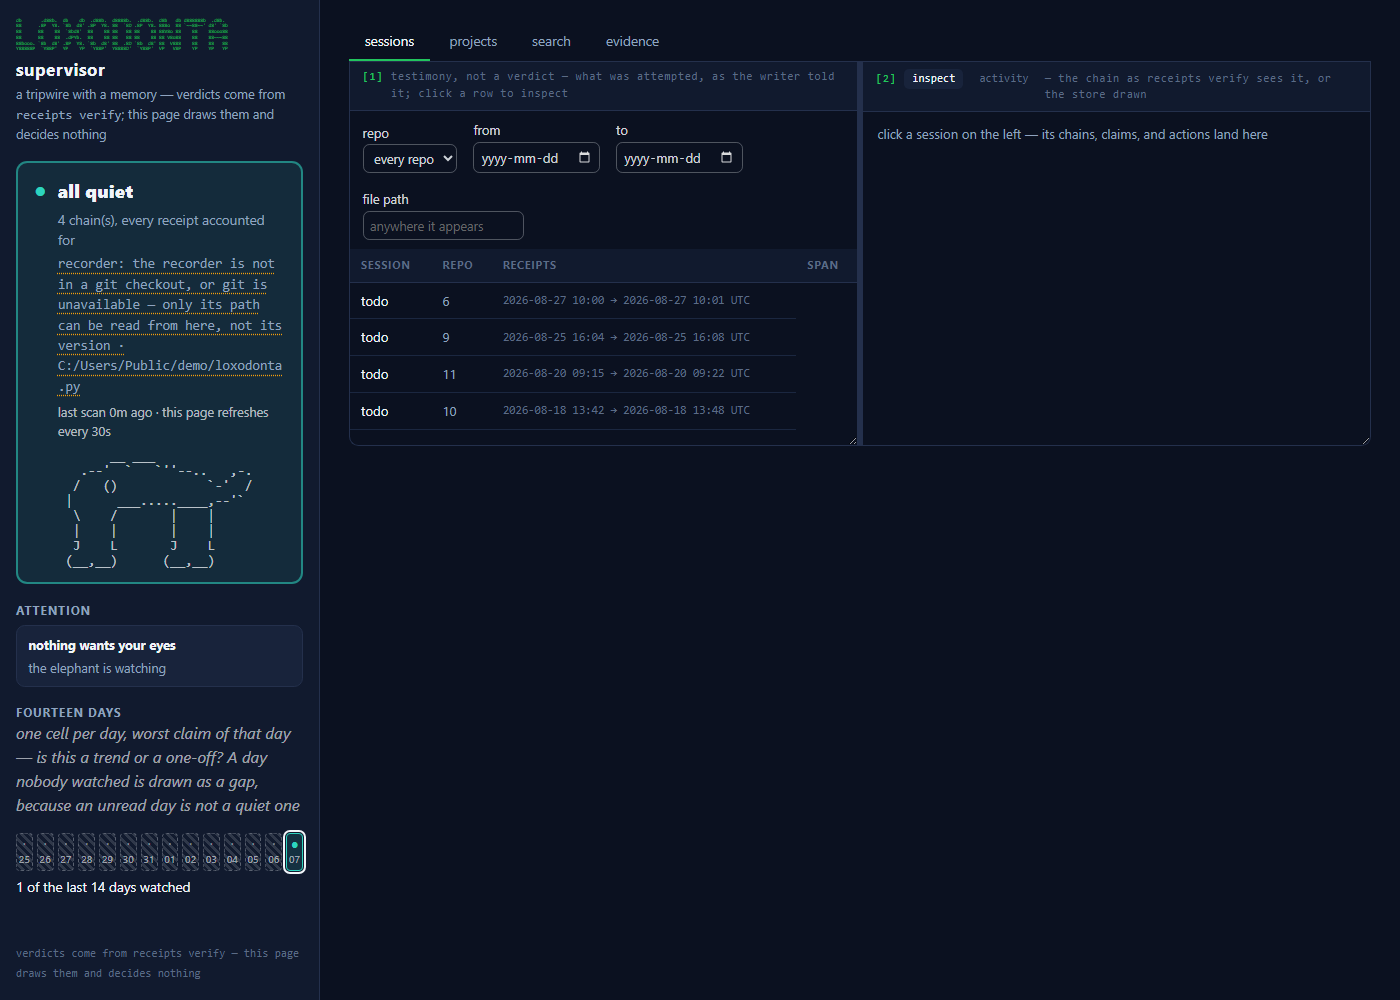
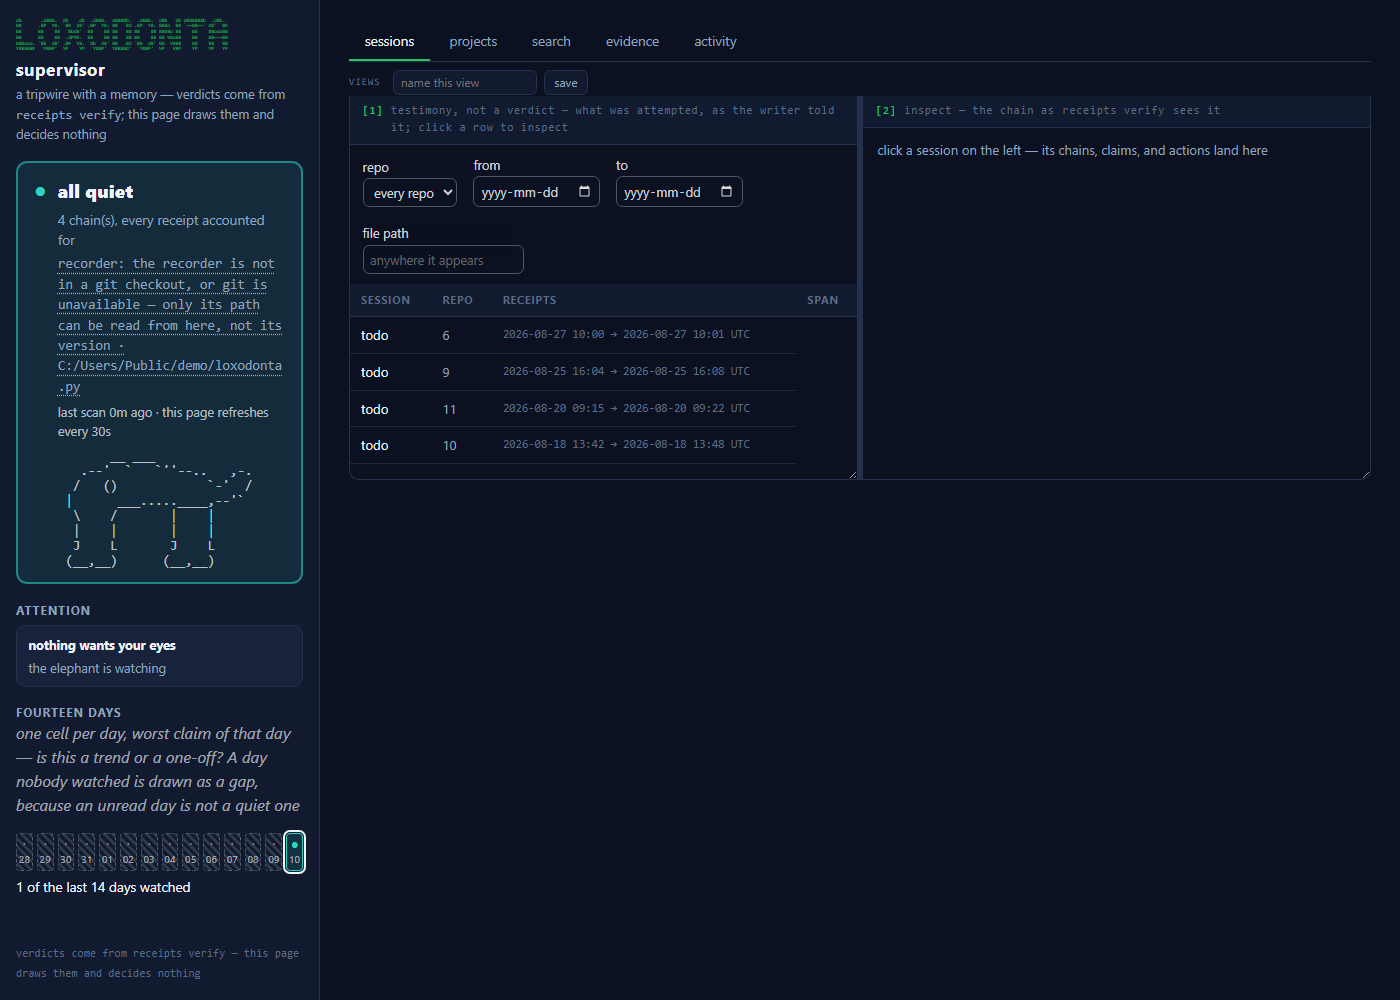
The docs catch up with the activity tab
Three things went stale when ADR-0027 shipped, and none of them was
wrong on main, because main has not moved. They are promotion blockers,
found by reading the README's claims against dev.

The Planned section said filters and aggregation are deliberately not
built until the plain commands fall short. The activity tab is
aggregation and named views are saved filters, and ADR-0013 binds the
dashboard to that sentence by name, so it could not be read as
CLI-only. It now says what is still true: the CLI query surface is
unbuilt, and the page went the other way, without the recorder being
asked for a single new field.

The supervisor tour described the previous layout, where activity sat
inside the inspect pane. It now carries the split, the density strip,
the fifth tab that replaces the split, the seven panels and why each
names its own window, and the views file with its closed field list.
Its security paragraph claimed a foreign Origin is refused so no
stranger pokes the drill; true, and incomplete once a second write path
exists, so the content-type lock is named beside it.

The screenshot predated the change. Recaptured over the demo store by
the same recipe as the original: a neutral public home, a recorder
wired there so the notice reads as a downloader's would, headless
Chrome at 1400x1000, chunks stripped to IHDR/IDAT/IEND. The page and
all four endpoints were grepped for the user name, the repo path, the
[…]

diff --git a/README.md b/README.md
@@ -248,12 +248,12 @@ Tampering only gets caught if something actually looks at the chains, and nobody
 
 ```
 python supervisor.py scan                     # one tick: every chain in the store, verdicts, exit code for cron
-python supervisor.py serve                    # localhost-only dashboard: status rail, attention queue, sessions worktable
+python supervisor.py serve                    # localhost-only dashboard: status rail, attention queue, worktable, activity
 python supervisor.py drill --root ~/repos --log <chain>   # rehearse detection on a sandbox copy, real chains untouched
 python supervisor.py adopt --root ~/repos     # one-time move of pre-store chains into the store (--dry-run to preview)
 ```
 
-![The supervisor dashboard over the demo store: a verdict strip reading "all quiet, 4 chains, every receipt accounted for" with the recorder notice under it, an attention list saying nothing wants your eyes, a fourteen-day band with one watched day, and a sessions table listing four todo sessions with their receipt counts and time spans; the inspect pane on the right waits for a row to be clicked.](docs/images/dashboard.png)
+![The supervisor dashboard over the demo store: a verdict strip reading "all quiet, 4 chains, every receipt accounted for" with the recorder notice under it, an attention list saying nothing wants your eyes, and a fourteen-day band with one watched day; on the right, five tabs (sessions, projects, search, evidence, activity) over a row of saved views, and a sessions table listing four todo sessions with their receipt counts and time spans, with the inspect pane waiting for a row to be clicked.](docs/images/dashboard.png)
 
 *`supervisor serve` over the [demo store](tools/demo_store.py), captured headless; no real store appears in a tracked image.*
 
@@ -313,7 +313,7 @@ What comes back gets read into [docs/FIELD-DATA.md](docs/FIELD-DATA.md), one row
 
 ## Planned
 
-A better viewer for reviewing the logs, most likely growing the localhost page in `supervisor serve` into full memory navigation, so browsing history doesn't require the CLI (still open to change). More adapters as harnesses earn them, and a completeness witness for Codex sessions once its transcript layout settles. A richer query surface if shelling out ever turns out insufficient: filters and aggregation are deliberately not built until the plain commands above fall short. Recall that reaches a session's worktree-path drawer, and a verdict recall can cite instead of hedging: both found wanting in the §6 run.
+More adapters as harnesses earn them, and a completeness witness for Codex sessions once its transcript layout settles. A richer query surface on the CLI if shelling out ever turns out insufficient: filters and aggregation there are still deliberately not built until the plain commands above fall short. The localhost page went the other way and now counts what the chains already hold, on its own tab, without the recorder being asked for a single new field. Recall that reaches a session's worktree-path drawer, and a verdict recall can cite instead of hedging: both found wanting in the §6 run.
 
 ## License
 

diff --git a/docs/TOUR-SUPERVISOR.md b/docs/TOUR-SUPERVISOR.md
@@ -258,8 +258,12 @@ is *nothing is ever offered off-machine* — which includes off-machine
 by trickery: a Host header that is not localhost is refused (DNS
 rebinding makes a stranger's page read as same-origin, and CORS never
 enters it), and a POST carrying a foreign Origin is refused (no
-stranger's page pokes the drill). `/api/chain` and `/api/drill` only
-resolve chains under the root; sidecars and path escapes get 404.
+stranger's page pokes the drill, or saves a view). The write path
+carries a second lock: a body this face will read must declare a
+small length and `application/json`, which a cross-origin form post
+cannot set without a preflight nothing here answers. `/api/chain`
+and `/api/drill` only resolve chains under the root; sidecars and
+path escapes get 404.
 
 **The page** is one inline HTML file, no framework, no build step,
 nothing fetched from anywhere but this machine. Writer-supplied text
@@ -269,9 +273,22 @@ must never become markup in the operator's browser. The layout (issue #48)
 is a status rail beside a tabbed worktable: the rail carries the
 verdict block, the severity-sorted attention queue, and the fourteen
 days; the worktable splits what you are looking at (sessions,
-projects, search, evidence) from the thing under inspection (a
-session's chains, or the activity charts), so everything quieter than
-an alarm waits behind a tab instead of shouting from the front page.
+projects, search, evidence) from the thing under inspection — a
+session's chains, its claims, and a density strip of its receipts
+across its own span — so everything quieter than an alarm waits
+behind a tab instead of shouting from the front page. A fifth tab,
+*activity*, is the exception to the split: it is the store counted
+rather than a list with a detail beside it, so it takes the whole
+worktable (ADR-0027). Seven panels under a two-screen cap — the
+tally, tempo against the store's norm, looks per day, the histogram
+of what the writer reached for, files touched, working hours, and
+sessions on one axis — each naming the window it draws, because the
+page has no range picker and a number over an unstated span says
+nothing. Every one of them counts what the chains already hold and
+owns no verdicts; the hook was not asked for a single new field.
+Saved filter sets live in `.supervisor-views.json` beside the day
+book, in the day book's posture, and hold a closed list of fields —
+a drawer, two dates, a path, a tab — so no view can reach the rail.
 The verdict strip is redundantly encoded (colour, words, and a shape
 mark), chosen for strong colour-vision deficiency: the quiet state is
 blue-teal, and the states part by lightness as well as hue. Tier language is the point:
